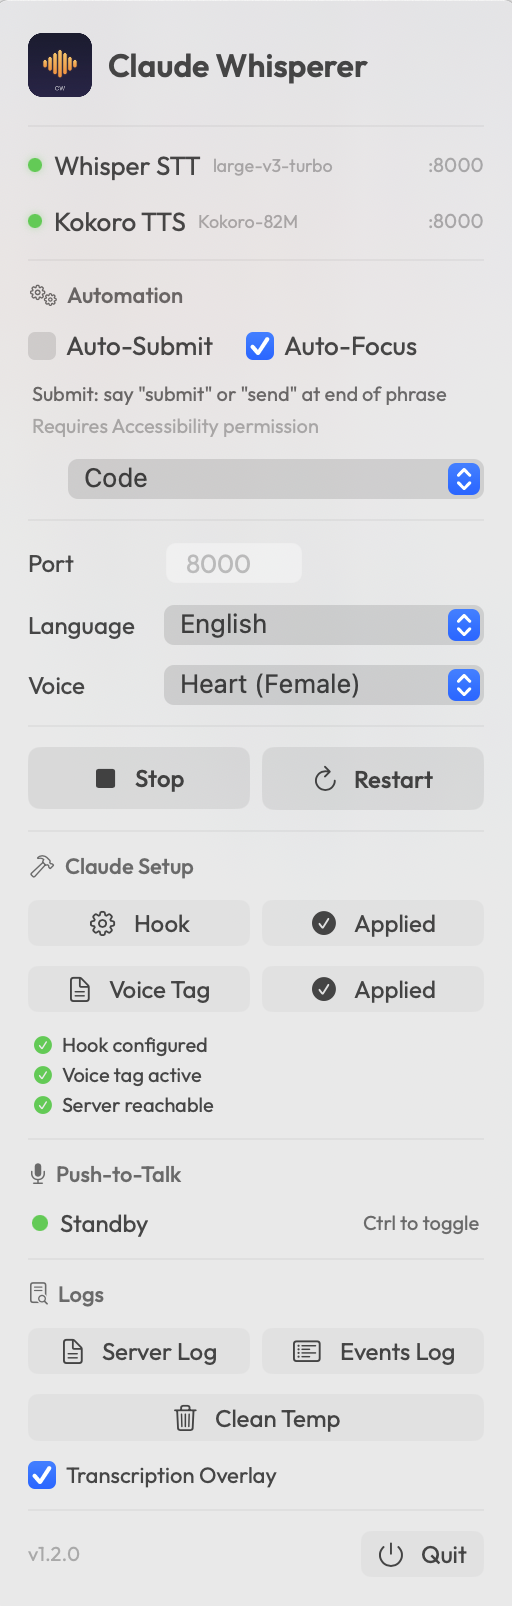
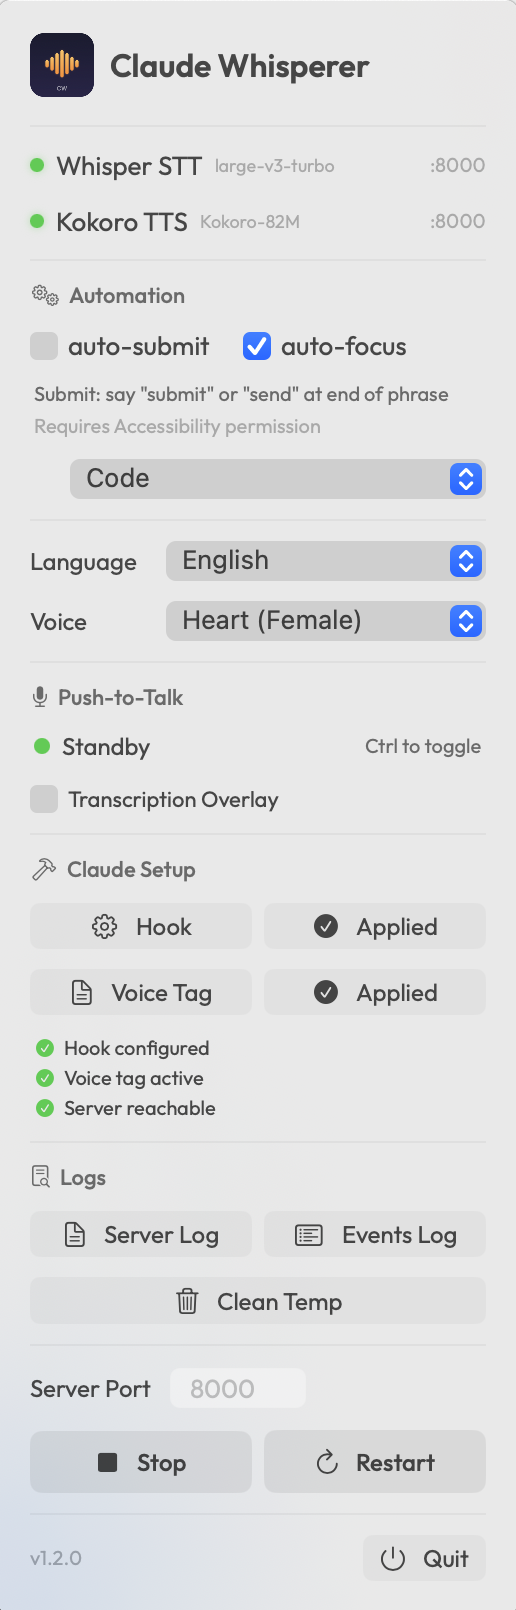
update screenshots — new menubar layout + transcription overlay

diff --git a/README.md b/README.md
@@ -4,6 +4,8 @@ Full interactive Voice mode for [Claude Code](https://claude.ai/claude-code) on 
 
 <p align="center">
   <img src="screenshot.png" width="320" alt="Claude Whisperer menubar app">
+  <br>
+  <img src="screenshot2.png" width="480" alt="Claude Whisperer transcription overlay">
 </p>
 
 ## What It Does
